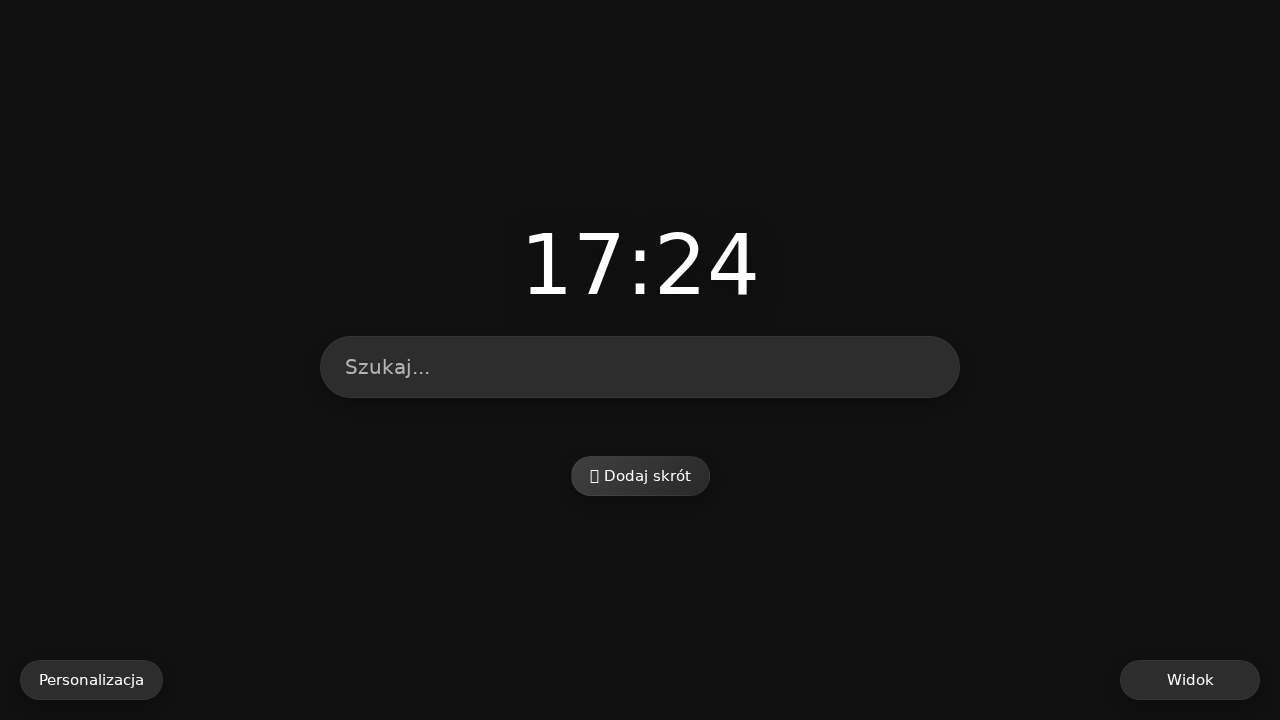
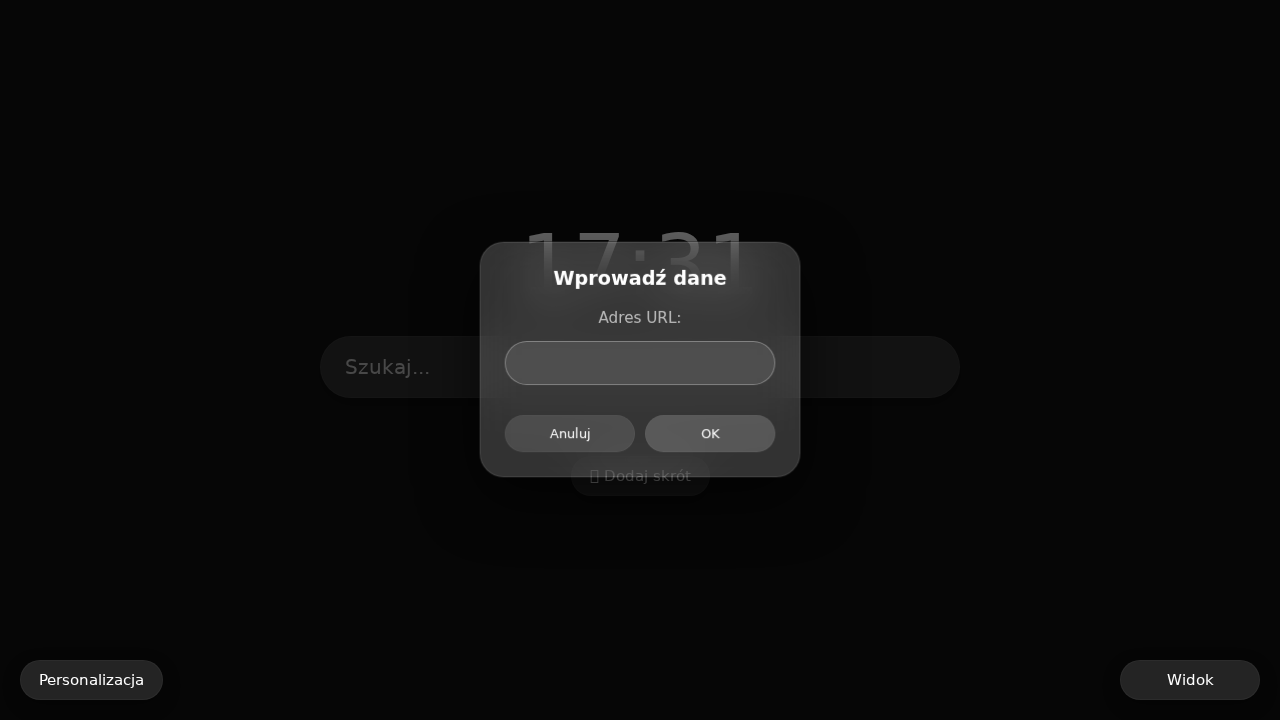
Fix translation issues in custom modals

Changed region(s): [[0.25, 0.3056, 0.75, 0.7028]]

diff --git a/verification/final_verify.py b/verification/final_verify.py
@@ -11,14 +11,15 @@ def run(playwright):
     print("Clicking Add Shortcut")
     page.click("#addShortcutBtn")
 
-    # Wait
+    # Wait for selector explicitly
     try:
-        page.wait_for_selector("#customModal:not(.hidden)", timeout=3000)
+        page.wait_for_selector("#customModal", state="visible", timeout=3000)
         print("Modal visible!")
     except:
-        print("Wait failed")
+        print("Modal check failed")
 
-    page.screenshot(path="verification/final_check.png")
+    page.screenshot(path="verification/custom_prompt_fixed.png")
+
     browser.close()
 
 with sync_playwright() as playwright:
